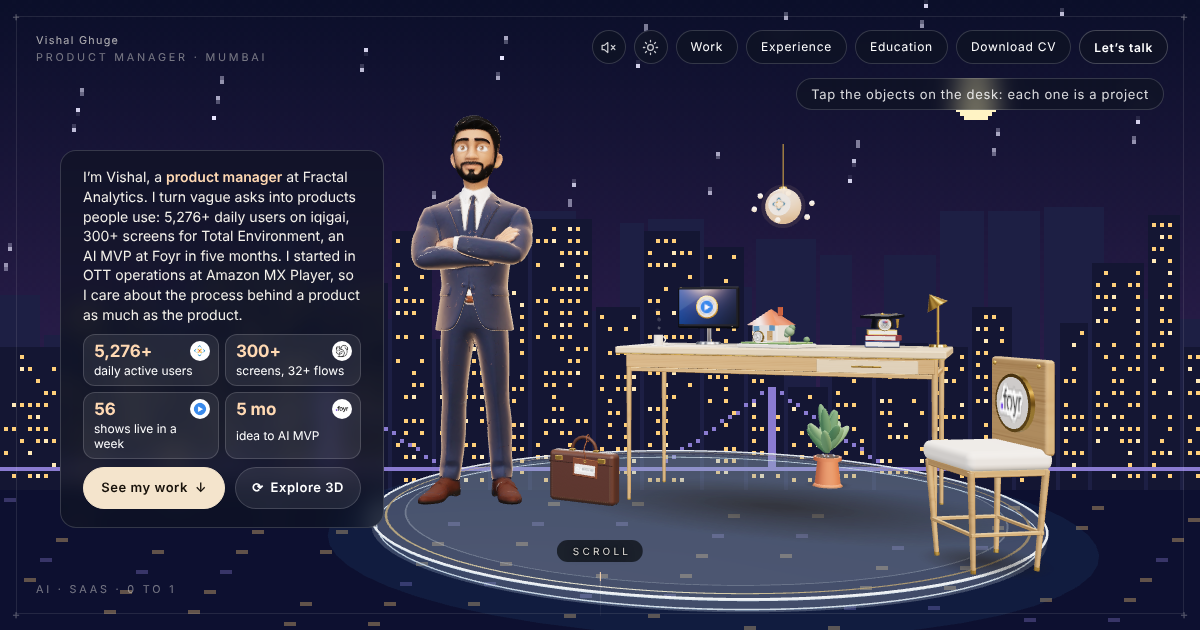
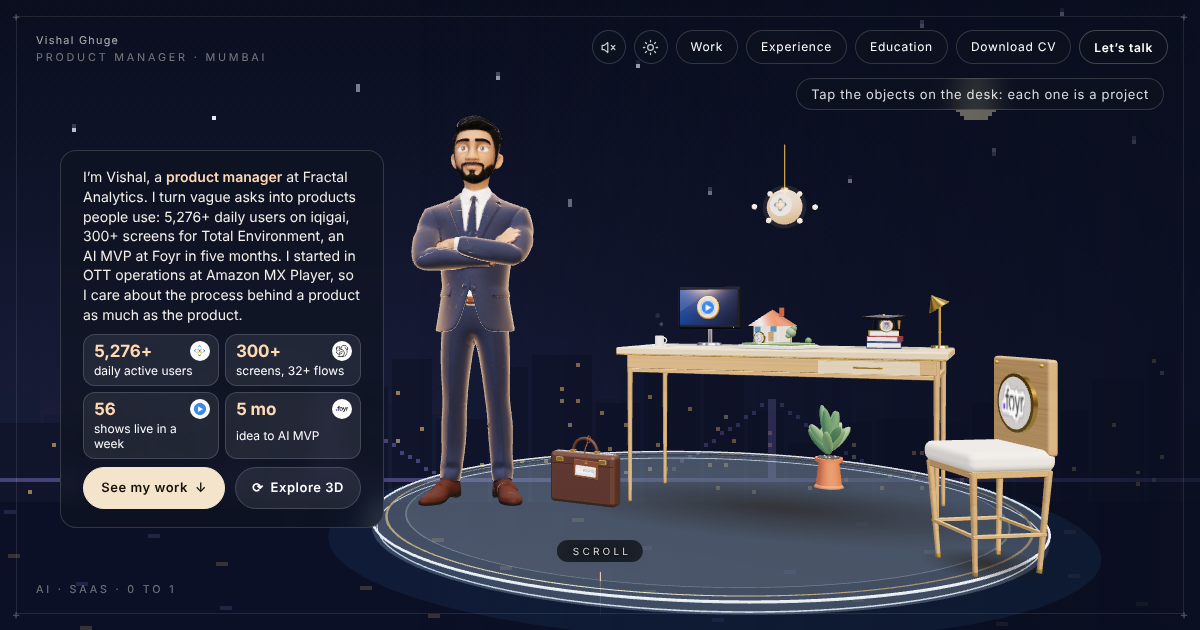
Calmer Mumbai backdrop: low soft skyline, sparse lights, no train, fade behind text
Claude-Session: https://claude.ai/code/session_01SWnfNPGbFHhiGrXWnwnedS

diff --git a/web/src/scene/CityBackdrop.tsx b/web/src/scene/CityBackdrop.tsx
@@ -1,8 +1,8 @@
 import { useEffect, useRef } from 'react'
 import { useTheme, type Theme } from '../theme'
 
-// Pixel-art Mumbai behind the 3D avatar: skyline with flickering windows, the sea link, a local train
-// crossing and reflections on the sea. Drawn on a small canvas and scaled up with crisp pixels, so it is
+// Pixel-art Mumbai behind the 3D avatar, kept minimal: a low, soft skyline with a few lit windows,
+// the sea link and a few slow glints on the sea. Drawn on a small canvas and scaled up with crisp pixels, so it is
 // cheap on phones. It redraws about 10 times a second, pauses with the tab, and stays still for visitors
 // who prefer reduced motion. Night palette in dark mode, dusk palette in light mode.
 
@@ -26,32 +26,32 @@ interface Palette {
 }
 const PALETTES: Record<Theme, Palette> = {
   dark: {
-    sky: ['#0b0f2a', '#2a1d4a', '#5a2e5c'],
+    sky: ['#0a0e1f', '#161a35', '#22203f'],
     stars: true,
     orb: '#fff3c4',
     orbSize: 8,
-    far: '#1d1f44',
-    near: '#141633',
-    win: ['#ffcf7a', '#ffe9b8'],
-    litChance: 0.45,
-    bridge: '#8a7bd1',
-    sea: '#0d1030',
-    glints: ['rgba(255,207,122,0.35)', 'rgba(138,123,209,0.35)'],
+    far: '#151a35',
+    near: '#11152c',
+    win: ['rgba(255,207,122,0.55)', 'rgba(255,233,184,0.5)'],
+    litChance: 0.1,
+    bridge: 'rgba(138,123,209,0.45)',
+    sea: '#0c1027',
+    glints: ['rgba(255,207,122,0.18)', 'rgba(138,123,209,0.18)'],
     train: '#c9d2ff',
     trainWin: '#ffcf7a',
   },
   light: {
-    sky: ['#86a3cf', '#c7bedd', '#f5d2bb'],
+    sky: ['#c9d3e4', '#dcdbe8', '#ece4e2'],
     stars: false,
     orb: '#fff4d6',
     orbSize: 12,
-    far: '#9aa6c4',
-    near: '#6d7898',
-    win: ['#ffe2a0', '#fff0c8'],
-    litChance: 0.12,
-    bridge: '#56627f',
-    sea: '#7d94bb',
-    glints: ['rgba(255,255,255,0.45)', 'rgba(255,226,160,0.4)'],
+    far: '#c3ccdd',
+    near: '#b3bdd1',
+    win: ['rgba(255,236,190,0.7)', 'rgba(255,244,214,0.7)'],
+    litChance: 0.05,
+    bridge: 'rgba(86,98,127,0.35)',
+    sea: '#c2cbdc',
+    glints: ['rgba(255,255,255,0.4)', 'rgba(255,255,255,0.3)'],
     train: '#eef1f8',
     trainWin: '#56627f',
   },
@@ -91,7 +91,7 @@ function draw(c: CanvasRenderingContext2D, w: number, h: number, t: number, p: P
 
   if (p.stars) {
     c.fillStyle = '#e8e6ff'
-    for (let i = 0; i < 48; i++) if ((i * 7 + ((t * 1.5) | 0)) % 13) c.fillRect((i * 53) % w, (i * 29) % (h * 0.45), 1, 1)
+    for (let i = 0; i < 18; i++) if ((i * 7 + ((t * 0.5) | 0)) % 17) c.fillRect((i * 53) % w, (i * 29) % (h * 0.45), 1, 1)
   }
   // moon (night) or low sun (dusk), right of the avatar
   const ox = Math.round(w * 0.8)
@@ -102,7 +102,7 @@ function draw(c: CanvasRenderingContext2D, w: number, h: number, t: number, p: P
   c.fillRect(ox - 1, oy + 1, s + 2, s - 2)
   c.fillRect(ox + 1, oy - 1, s - 2, s + 2)
 
-  const sea = Math.round(h * 0.78)
+  const sea = Math.round(h * 0.8)
   const skyline = (list: Building[], body: string, windows: boolean) => {
     for (const b of list) {
       c.fillStyle = body
@@ -112,7 +112,7 @@ function draw(c: CanvasRenderingContext2D, w: number, h: number, t: number, p: P
       for (let yy = Math.round(sea - b.h) + 2; yy < sea - 2; yy += 3)
         for (let xx = b.x + 1; xx < b.x + b.w - 1; xx += 2) {
           k++
-          const flick = ((t * 0.6 + k * 3.1) | 0) % 41 === 0
+          const flick = ((t * 0.25 + k * 3.1) | 0) % 97 === 0
           if (b.lit[k % 240] !== flick) {
             c.fillStyle = k % 5 ? p.win[0] : p.win[1]
             c.fillRect(xx, yy, 1, 1)
@@ -133,19 +133,13 @@ function draw(c: CanvasRenderingContext2D, w: number, h: number, t: number, p: P
       c.fillRect(px + 1 + d * 2, Math.round(sea - 26 + d * 1.4), 1, 1)
     }
   }
-  // local train crossing the bridge
-  const tx = Math.round(((t * 16) % (w + 40)) - 40)
-  c.fillStyle = p.train
-  c.fillRect(tx, sea - 9, 30, 3)
-  c.fillStyle = p.trainWin
-  for (let j = 0; j < 30; j += 4) c.fillRect(tx + j + 1, sea - 8, 2, 1)
 
   // sea with drifting reflections
   c.fillStyle = p.sea
   c.fillRect(0, sea, w, h - sea)
-  for (let i = 0; i < 70; i++) {
+  for (let i = 0; i < 24; i++) {
     c.fillStyle = i % 3 ? p.glints[0] : p.glints[1]
-    c.fillRect(Math.round((i * 37 + t * 5) % w), sea + 2 + ((i * 13) % Math.max(1, h - sea - 2)), 3, 1)
+    c.fillRect(Math.round((i * 53 + t * 2) % w), sea + 2 + ((i * 13) % Math.max(1, h - sea - 2)), 3, 1)
   }
 }
 
@@ -164,8 +158,8 @@ export default function CityBackdrop() {
     const size = () => {
       cv.width = Math.ceil(window.innerWidth / PIXEL)
       cv.height = Math.ceil(window.innerHeight / PIXEL)
-      far = makeSkyline(cv.width, cv.height, 11, 0.24, 0.22, 0)
-      near = makeSkyline(cv.width, cv.height, 7, 0.14, 0.3, pal.litChance)
+      far = makeSkyline(cv.width, cv.height, 11, 0.14, 0.12, 0)
+      near = makeSkyline(cv.width, cv.height, 7, 0.08, 0.16, pal.litChance)
       draw(ctx, cv.width, cv.height, performance.now() / 1000, pal, far, near)
     }
     size()

diff --git a/web/index.html b/web/index.html
@@ -17,7 +17,7 @@
       content="Product Manager at Fractal Analytics. Case studies: iqigai (AI staffing platform with 5,276+ daily users), a 300+ screen 3D design tool, an AI MVP in 5 months, and 56 shows live in a week at Amazon MX Player."
     />
     <meta property="og:url" content="https://vishalghuge-git.github.io/portfolio/" />
-    <meta property="og:image" content="https://vishalghuge-git.github.io/portfolio/og.png?v=4" />
+    <meta property="og:image" content="https://vishalghuge-git.github.io/portfolio/og.png?v=5" />
     <meta property="og:image:width" content="1200" />
     <meta property="og:image:height" content="630" />
     <meta property="og:image:alt" content="Vishal Ghuge's portfolio: a 3D studio with his work and case studies" />
@@ -25,7 +25,7 @@
     <meta name="twitter:card" content="summary_large_image" />
     <meta name="twitter:title" content="Vishal Ghuge · Product Manager" />
     <meta name="twitter:description" content="AI and SaaS products from 0 to 1. Case studies from Fractal, Foyr, Total Environment and Amazon MX Player." />
-    <meta name="twitter:image" content="https://vishalghuge-git.github.io/portfolio/og.png?v=4" />
+    <meta name="twitter:image" content="https://vishalghuge-git.github.io/portfolio/og.png?v=5" />
     <link rel="preconnect" href="https://fonts.googleapis.com" />
     <link rel="preconnect" href="https://fonts.gstatic.com" crossorigin />
     <link

diff --git a/web/src/styles.css b/web/src/styles.css
@@ -2923,3 +2923,11 @@ html[data-theme='light'] .topbar .topbar-menu { color: var(--ink); }
   position: absolute; inset: 0; z-index: -1; width: 100%; height: 100%; display: block;
   image-rendering: pixelated; image-rendering: crisp-edges;
 }
+/* Keep the backdrop quiet where text sits: fade it toward the content column (right on desktop, everywhere on phones) */
+.scene-bg::after {
+  content: ''; position: absolute; inset: 0; z-index: -1; pointer-events: none;
+  background: linear-gradient(90deg, transparent 35%, rgba(10, 14, 31, 0.55) 70%, rgba(10, 14, 31, 0.75));
+}
+@media (max-width: 1099px) { .scene-bg::after { background: rgba(10, 14, 31, 0.25); } }
+html[data-theme='light'] .scene-bg::after { background: linear-gradient(90deg, transparent 35%, rgba(238, 241, 245, 0.55) 70%, rgba(238, 241, 245, 0.75)); }
+@media (max-width: 1099px) { html[data-theme='light'] .scene-bg::after { background: rgba(238, 241, 245, 0.25); } }
